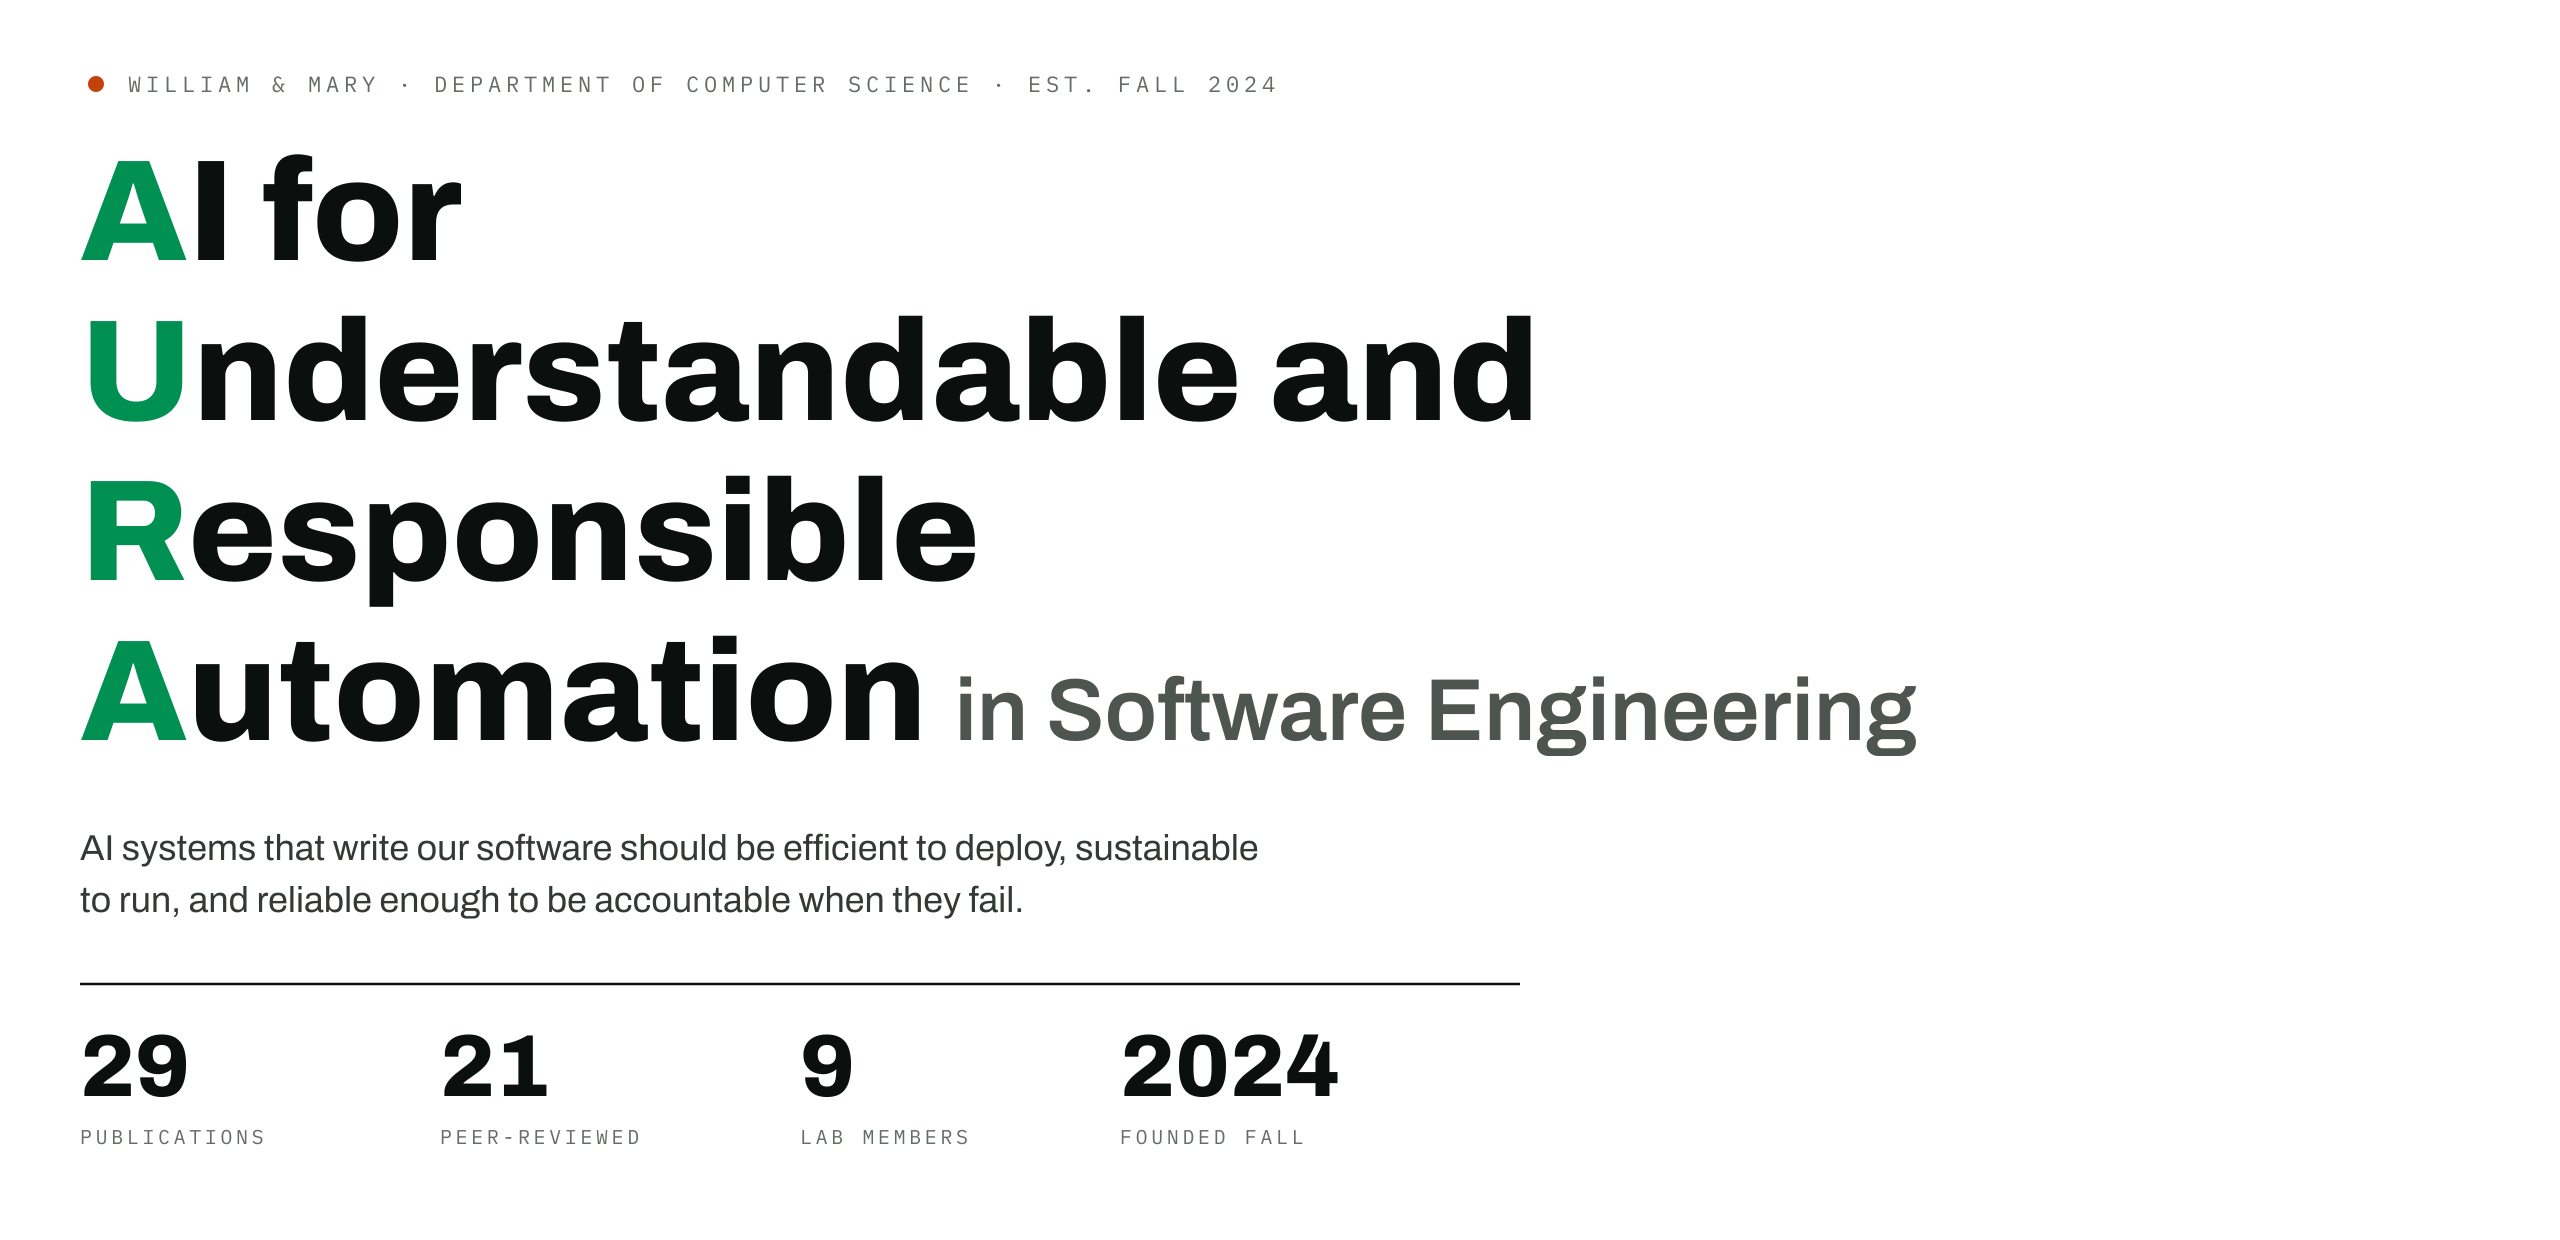
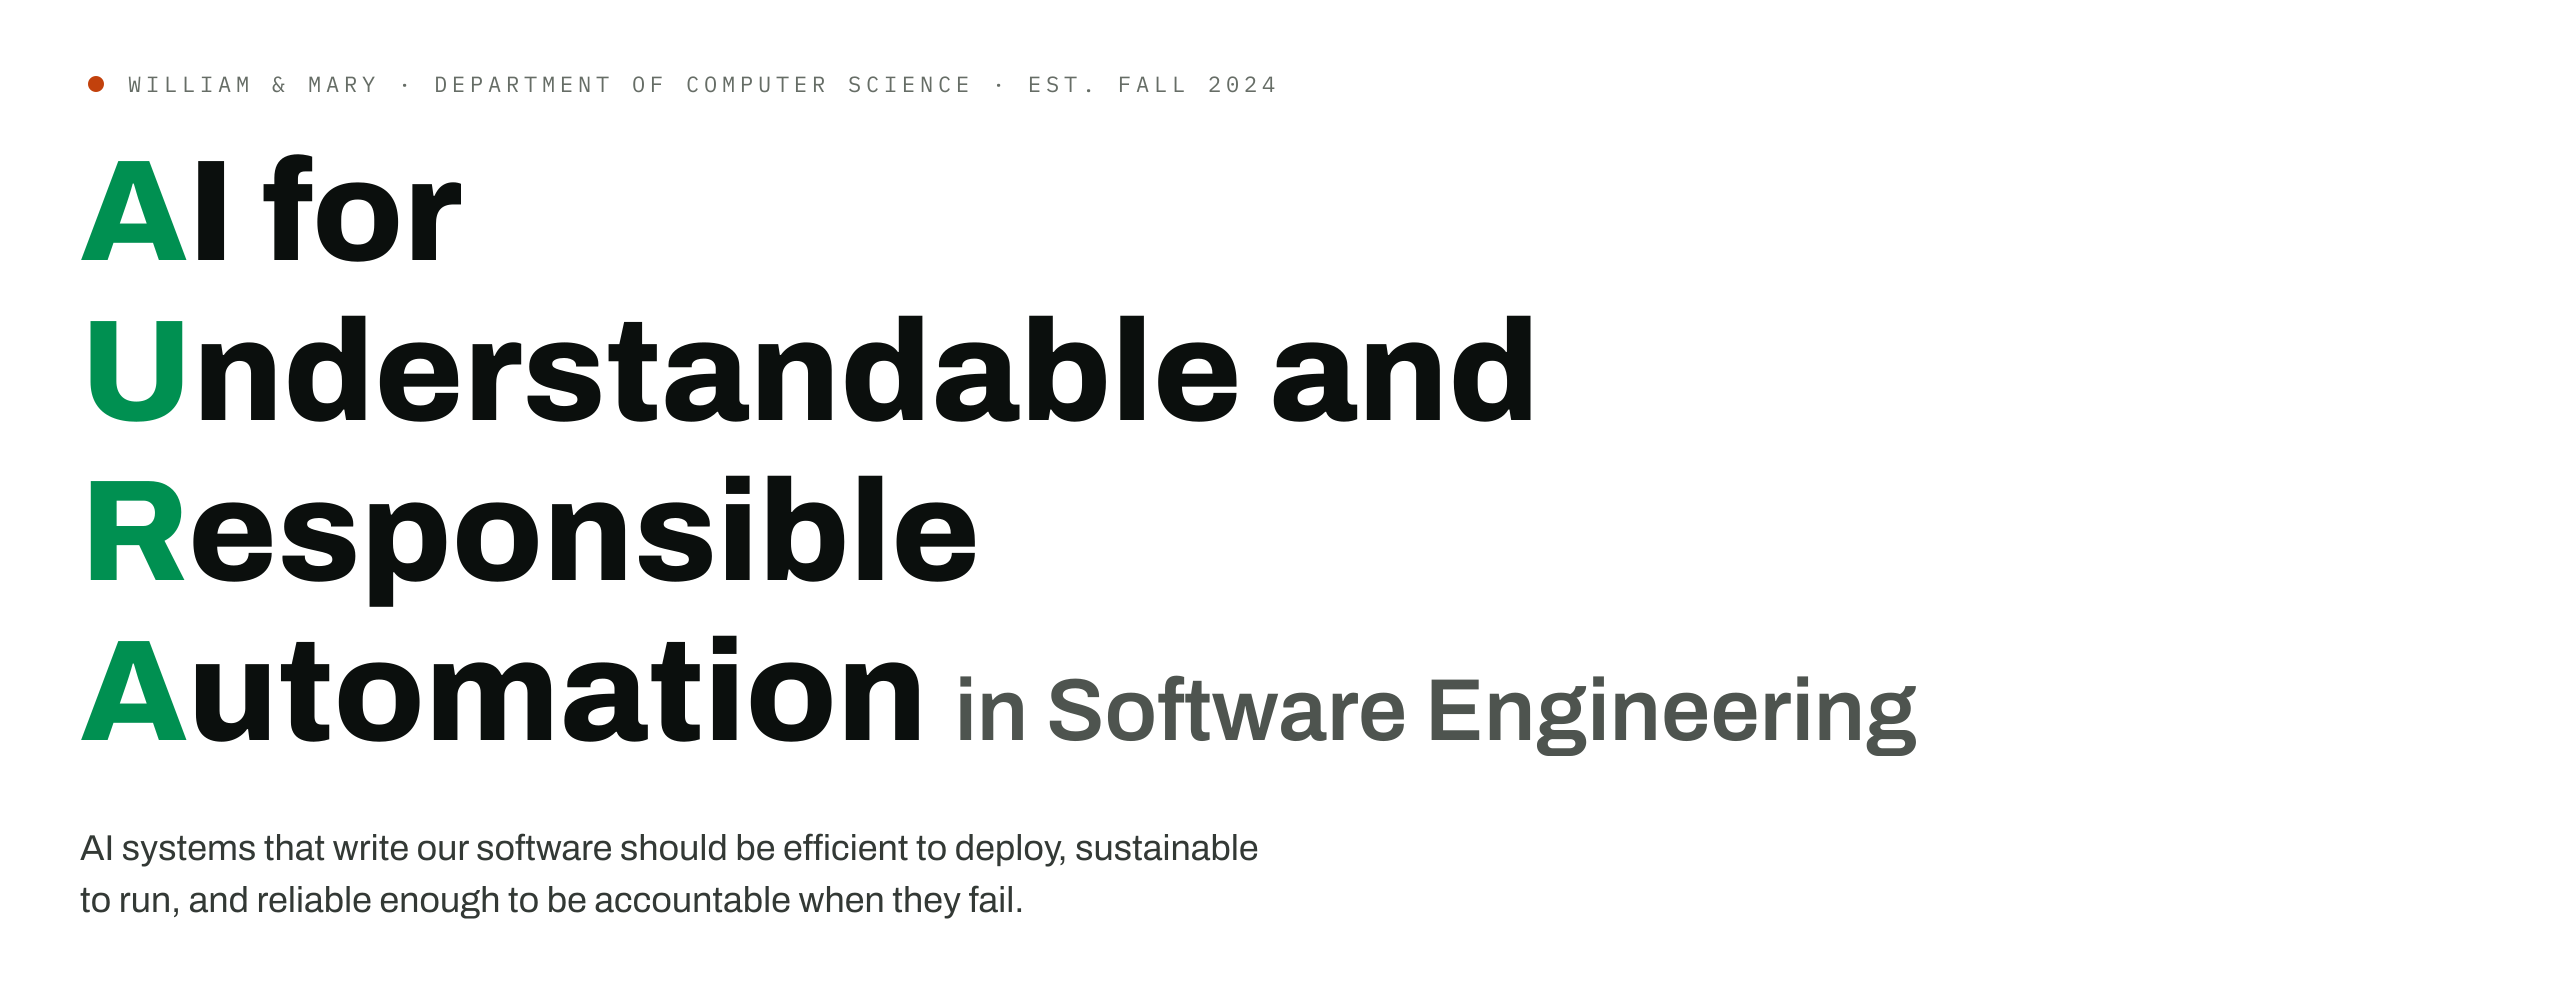
Drop the publication-count strip from the org hero
Counts go stale. Papers live on auralab.sh/publications, not as KPIs here.

Changed region(s): [[0.0312, 0.124, 0.75, 0.775], [0.0312, 0.837, 0.5312, 0.93], [0.0312, 0.062, 0.5, 0.093]]

diff --git a/profile/README.md b/profile/README.md
@@ -1,6 +1,6 @@
 <p align="center">
   <a href="https://auralab.sh">
-    <img src="assets/hero.png" alt="AURA Lab — AI for Understandable and Responsible Automation in Software Engineering. William &amp; Mary, Department of Computer Science. 29 publications, 21 peer-reviewed, 9 lab members, founded Fall 2024." width="100%">
+    <img src="assets/hero.png" alt="AURA Lab — AI for Understandable and Responsible Automation in Software Engineering. William &amp; Mary, Department of Computer Science." width="100%">
   </a>
 </p>
 
